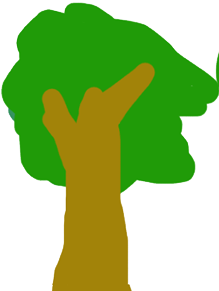
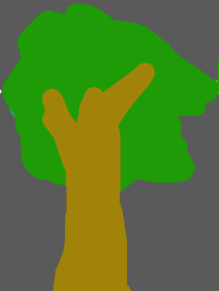
나무 뒤에 들어가면 나무가 투명해 지도록 변경

diff --git a/mapob.py b/mapob.py
@@ -4,11 +4,12 @@ import main, map
 import pygame, sys, os, random
 from pygame.locals import *
 
+TRANSPARENT = (255,0,255)
 
 class Mapob(pygame.sprite.Sprite):
     def __init__(self, name, x, y):
 	pygame.sprite.Sprite.__init__(self)
-	self.object = map.load_image(name+".png")
+	self.object = map.load_image(name+".png", -1)
 	self.pos_x = x
 	self.pos_y = y
 	self.area = map.load_image("area_"+name+".png")
@@ -16,21 +17,27 @@ class Mapob(pygame.sprite.Sprite):
 	self.rect = Rect((self.s_x, self.s_y, 
                           self.area.get_width(), self.area.get_height()))
 	self.type = "mapobject"
-
-    def draw(self, screen, camera):
+    def draw(self, screen, camera, player):
 	self.rect = Rect((self.s_x-camera.px, self.s_y, 
                           self.area.get_width(), self.area.get_height()))
 	screen.blit(self.area, (self.s_x-camera.px, self.s_y))
-	screen.blit(self.object, (self.pos_x-camera.px, self.pos_y))
+	x1 = self.pos_x+self.object.get_width()
+	y1 = self.pos_y+self.object.get_height()
+	if self.pos_x <= player.pos_x+camera.px <= x1:	
+            if y1 >= player.pos_y+player.image.get_height() >= self.pos_y:
+	        self.object.set_alpha(125)
+	else:
+	    self.object.set_alpha(255)
+        screen.blit(self.object, (self.pos_x-camera.px, self.pos_y))
 
 
-#    def per_clash
+
 
 def shadow(n, x, y):
     if n.startswith("tree"):
 	return (x+49, y+274)
     return (0,0)
-
+#def per_clash
 def pla_clash(sprite, group, camera):
     who = pygame.sprite.spritecollideany(sprite, group)
     if who:

diff --git a/map.py b/map.py
@@ -21,7 +21,11 @@ def load_image(name, colorkey=None):
     except pygame.error, message:
         print 'Cannot load image:', name
         raise SystemExit, message
-    image = image.convert_alpha()
+    image = image.convert()
+    if colorkey is not None:
+        if colorkey is -1:
+            colorkey = image.get_at((0,0))
+        image.set_colorkey(colorkey, RLEACCEL)
     return image
 
 class Camera:
@@ -36,9 +40,9 @@ class Camera:
 
 class Map:
     def __init__(self, map, tiles):
-	self.tiles = load_image(tiles)
+	self.tiles = load_image(tiles, -1)
 	self.bg = load_image('bg_1.png')
-
+	self.tiles = self.tiles.convert_alpha()
 	self.width, self.height = (0, TILE_SIZE*3)
 	l = [line.strip() for line in open('data/tutorial/data/'+map).readlines()]
 	self.map = [[None]*len(l[0]) for j in range(len(l))]

diff --git a/tutorial.py b/tutorial.py
@@ -111,7 +111,7 @@ def tutorial_main(screen):
 		player.draw(screen, clash, weapon)
 		weapon.draw(screen, player, clash)
 	    else:
-		draw_list[i].draw(screen,camera)
+		draw_list[i].draw(screen,camera,player)
 
         pygame.display.update()
 	pygame.display.flip()
